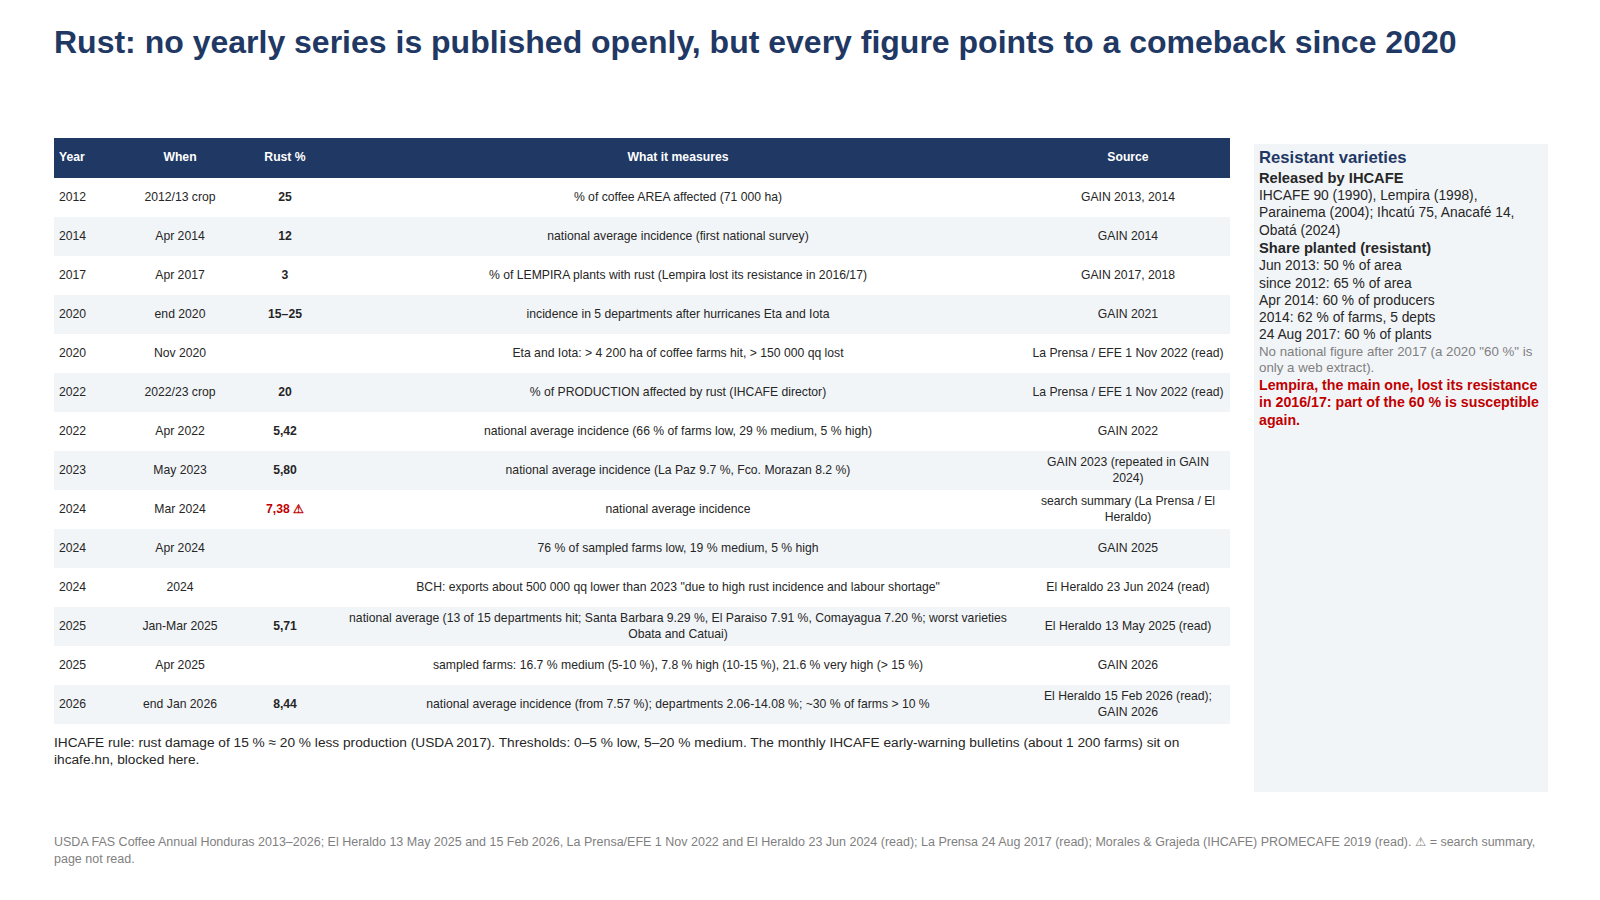
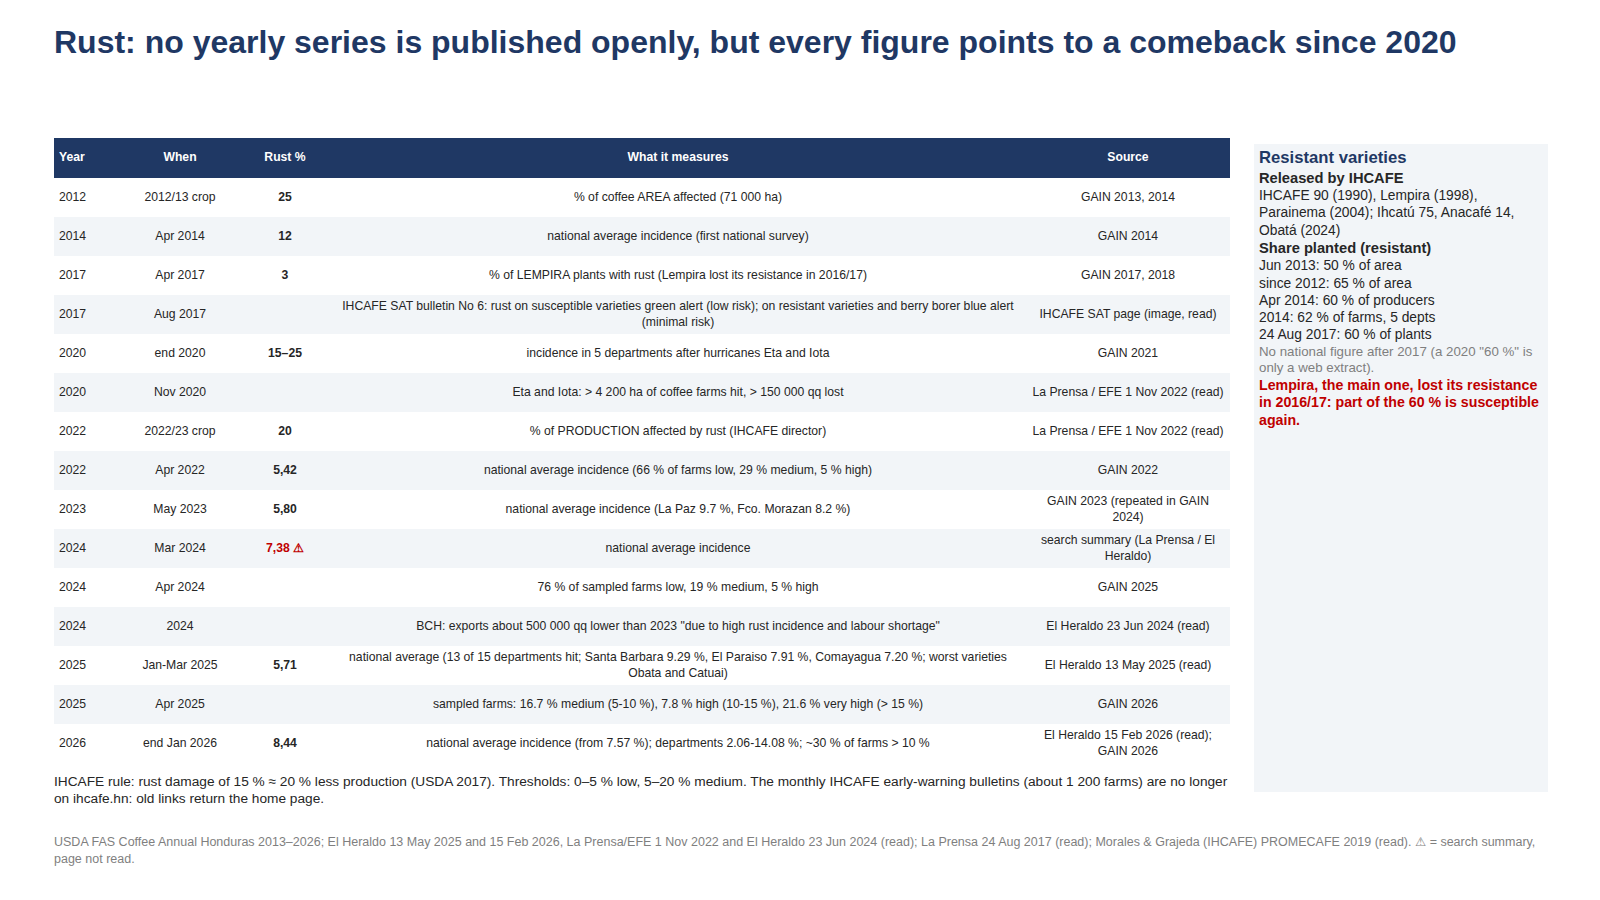
Add the August 2017 IHCAFE early-warning bulletin to the Honduras rust list
Claude-Session: https://claude.ai/code/session_01GCSUFXh2mYdWNgg7VCeE1G

diff --git a/research/honduras/yoy/data_yoy.py b/research/honduras/yoy/data_yoy.py
@@ -90,6 +90,8 @@ RUST = [
     dict(year=2012, when='2012/13 crop', value=25.0, measure='% of coffee AREA affected (71 000 ha)', status='USDA', src='GAIN 2013, 2014'),
     dict(year=2014, when='Apr 2014', value=12.0, measure='national average incidence (first national survey)', status='USDA', src='GAIN 2014'),
     dict(year=2017, when='Apr 2017', value=3.0, measure='% of LEMPIRA plants with rust (Lempira lost its resistance in 2016/17)', status='USDA', src='GAIN 2017, 2018'),
+    dict(year=2017, when='Aug 2017', value=None, measure='IHCAFE SAT bulletin No 6: rust on susceptible varieties green alert (low risk); on resistant varieties and berry borer blue alert (minimal risk)',
+         status='DOC', src='IHCAFE SAT page (image, read)'),
     dict(year=2020, when='end 2020', value=20.0, lo=15, hi=25, measure='incidence in 5 departments after hurricanes Eta and Iota', status='USDA', src='GAIN 2021'),
     dict(year=2020, when='Nov 2020', value=None, measure='Eta and Iota: > 4 200 ha of coffee farms hit, > 150 000 qq lost', status='DOC', src='La Prensa / EFE 1 Nov 2022 (read)'),
     dict(year=2022, when='2022/23 crop', value=20.0, measure='% of PRODUCTION affected by rust (IHCAFE director)', status='DOC', src='La Prensa / EFE 1 Nov 2022 (read)'),

diff --git a/research/honduras/slides/build_yoy_deck.py b/research/honduras/slides/build_yoy_deck.py
@@ -85,7 +85,7 @@ def slide_rust():
         rows.append([str(d['year']), d['when'], [(v + (' ⚠' if d['status'] == 'PRESS' else ''), dict(b=True, color=RED if d['status'] == 'PRESS' else INK))],
                      d['measure'], d['src'].replace('web search summary', 'search summary')])
     yy = p.table(0.45, 1.15, [0.55, 1.0, 0.75, 5.8, 1.7], [0.34] + [0.325] * (len(rows) - 1), rows, sz=7.3)
-    p.text(0.45, yy + 0.08, 9.8, 0.55, ['IHCAFE rule: rust damage of 15 % ≈ 20 % less production (USDA 2017). Thresholds: 0–5 % low, 5–20 % medium. The monthly IHCAFE early-warning bulletins (about 1 200 farms) sit on ihcafe.hn, blocked here.'], sz=8.2)
+    p.text(0.45, yy + 0.08, 9.8, 0.55, ['IHCAFE rule: rust damage of 15 % ≈ 20 % less production (USDA 2017). Thresholds: 0–5 % low, 5–20 % medium. The monthly IHCAFE early-warning bulletins (about 1 200 farms) are no longer on ihcafe.hn: old links return the home page.'], sz=8.2)
     x0, w0 = 10.45, 2.45
     lines = [('Resistant varieties', dict(b=True, color=NAVY, sz=10)),
              ('Released by IHCAFE', dict(b=True, sz=8.8)),

diff --git a/research/honduras/excel/build_yoy_xlsx.py b/research/honduras/excel/build_yoy_xlsx.py
@@ -260,7 +260,7 @@ fe.freeze = (5, 2)
 # ------------------------------------------------------------------ Disease
 di = wb.add('Disease')
 di.set(1, 1, 'Rust (roya) and other problems, every figure found', TITLE)
-di.set(2, 1, 'There is no published yearly series in the files we could reach: IHCAFE early-warning bulletins (monthly, about 1 200 farms) are behind the blocked ihcafe.hn host. Figures below are those printed by USDA or the press.', SUB)
+di.set(2, 1, 'There is no published yearly series in the files we could reach: IHCAFE early-warning bulletins (monthly, about 1 200 farms) are no longer served by ihcafe.hn (old links return the home page; checked 25 Sep 2026). Figures below are those printed by USDA or the press.', SUB)
 di.row(4, 1, ['Year', 'When', 'Value (%)', 'What it measures', 'Status', 'Source'], H)
 for k, d in enumerate(D.RUST):
     r = 5 + k
